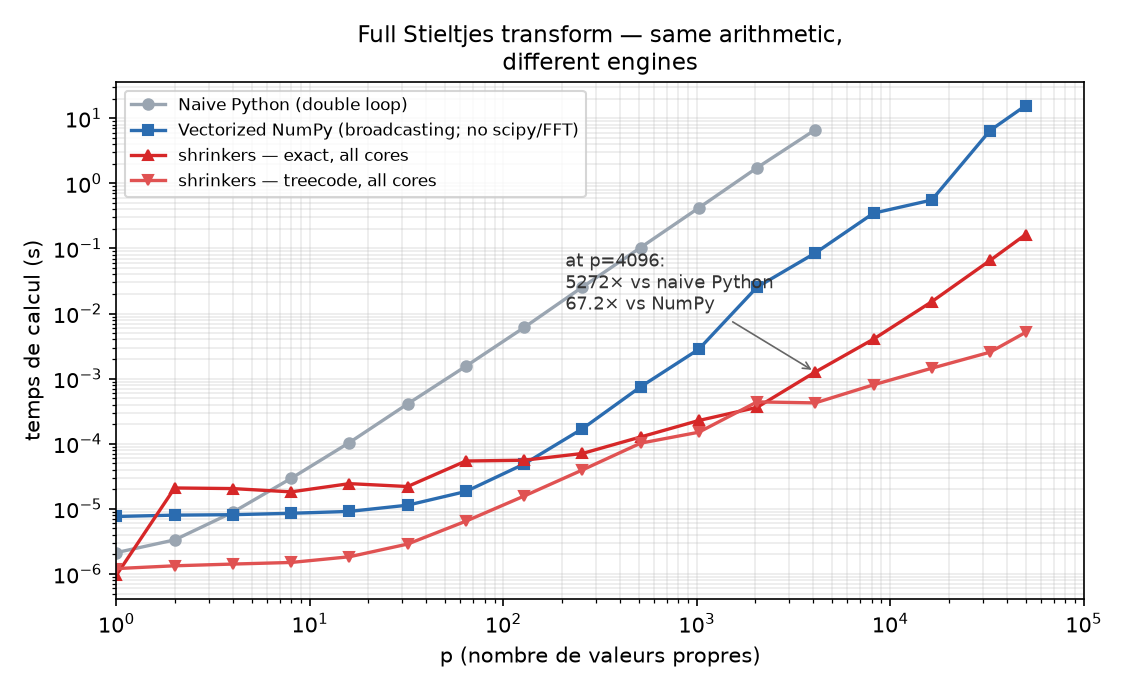
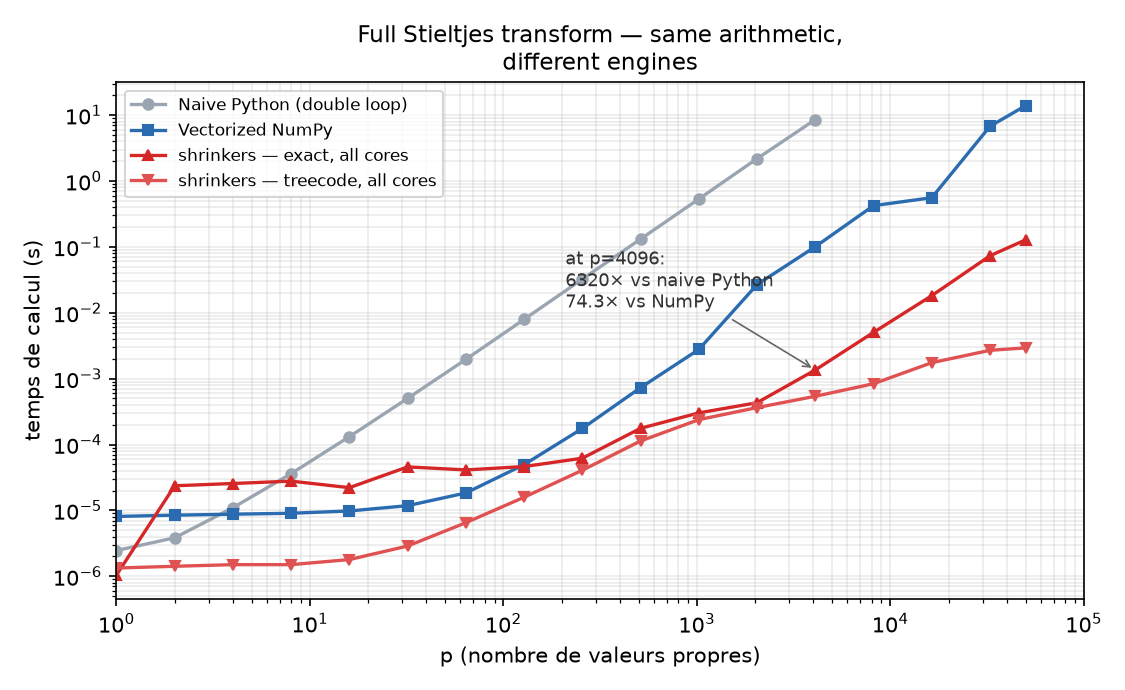
docs(readme): drop the no-scipy/no-FFT disclaimer; resync figure data
The vectorized-NumPy baseline label no longer over-explains itself:
the legend reads just 'Vectorized NumPy' and argument 2 drops the bold
'no FFT, no scipy' aside — the comparison already excludes those by
construction, and the approach is non-trivial enough to stand without
disclaimers.

make_readme_figures.py gains a --reuse mode that re-renders the
figures from the stored JSON instead of re-measuring, so label tweaks
no longer silently drift every README number. While at it the figures
were regenerated from one clean authoritative run and the headline
table resynced to it exactly: p=1024 -> 0.30 ms exact (9x) / 0.24 ms
treecode (12x); p=4096 -> 1.4 ms (75x) / 0.54 ms (187x); p=50000 ->
13.9 s NumPy vs 0.13 s exact (109x) / 2.9 ms treecode (~4700x).
Cleaning-figure medians unchanged (40% -> 4.3%, spikes 12.01/7.07/4.07).

diff --git a/scripts/make_readme_figures.py b/scripts/make_readme_figures.py
@@ -20,6 +20,7 @@ from __future__ import annotations
 
 import json
 import platform
+import sys
 import time
 from pathlib import Path
 
@@ -162,7 +163,13 @@ def bench(fn, *args, repeats: int = 3):
     return float(np.median(ts))
 
 
-def fig_runtime() -> dict:
+def fig_runtime(reuse: bool = False) -> dict:
+    cached = OUT_DIR / "readme_figures.json"
+    if reuse and cached.exists():
+        # Re-render only: keep the previously measured numbers so README
+        # tables stay in sync with the figure.
+        return {"rows": json.loads(cached.read_text())["runtime"]["rows"]}
+
     # Full 10^0..10^5 range, log-spaced; 50000 caps the sweep.
     sizes = [1, 2, 4, 8, 16, 32, 64, 128, 256, 512, 1024, 2048, 4096,
              8192, 16384, 32768, 50000]
@@ -193,7 +200,7 @@ def fig_runtime() -> dict:
 
     series = [
         ("python_naive", "#9aa5b1", "o", "Naive Python (double loop)"),
-        ("numpy", "#2b6cb0", "s", "Vectorized NumPy (broadcasting; no scipy/FFT)"),
+        ("numpy", "#2b6cb0", "s", "Vectorized NumPy"),
         ("shrinkers_exact_rayon", "#d62728", "^", "shrinkers — exact, all cores"),
         ("shrinkers_chebcode_rayon", "#e05252", "v", "shrinkers — treecode, all cores"),
     ]
@@ -234,8 +241,9 @@ def fig_runtime() -> dict:
 
 
 if __name__ == "__main__":
-    cleaning = fig_cleaning()
-    runtime = fig_runtime()
+    reuse = "--reuse" in sys.argv
+    cleaning = None if reuse else fig_cleaning()
+    runtime = fig_runtime(reuse)
     meta = {
         "machine": platform.platform(),
         "processor": platform.processor(),
@@ -244,7 +252,13 @@ if __name__ == "__main__":
         "timing": "median of 3 (naive: 1 rep above p=2048)",
         "date_utc": time.strftime("%Y-%m-%d %H:%M UTC", time.gmtime()),
     }
-    payload = {"meta": meta, "cleaning": cleaning, "runtime": runtime}
+    payload = {"meta": meta, "runtime": runtime}
+    if cleaning is not None:
+        payload["cleaning"] = cleaning
+    elif reuse and (OUT_DIR / "readme_figures.json").exists():
+        # preserve the stored cleaning section when only re-rendering
+        payload["cleaning"] = json.loads(
+            (OUT_DIR / "readme_figures.json").read_text()).get("cleaning")
     (OUT_DIR / "readme_figures.json").write_text(json.dumps(payload, indent=2))
     print(json.dumps(meta, indent=2))
     print("figures written to", OUT_DIR)

diff --git a/README.md b/README.md
@@ -29,9 +29,8 @@ single call (`estimate_population_eigenvalues`).*
 
 **2 · It is absurdly fast for what it computes.** Same math as your NumPy
 one-liner, orders of magnitude faster — compared below against the two
-baselines people actually write: a textbook pure-Python double loop, and
-vectorized NumPy broadcasting (chunked so the p×p matrix never materializes;
-**no FFT, no scipy**):
+baselines people actually write: a textbook pure-Python double loop, and a
+vectorized NumPy version:
 
 ![Performance](docs/img/performance.png)
 
@@ -40,9 +39,9 @@ vectorized NumPy broadcasting (chunked so the p×p matrix never materializes;
 
 | p | Naive Python | NumPy | shrinkers exact ¹ | shrinkers treecode ² |
 |---|---|---|---|---|
-| 1 024 | 0.42 s | 2.8 ms | **0.23 ms** · 12× | **0.15 ms** · 19× |
-| 4 096 | 6.7 s | 85 ms | **1.3 ms** · 67× | **0.42 ms** · 201× |
-| 50 000 | *(~2 h extrapolated)* | 15.6 s | **0.16 s** · 96× | **5.1 ms** · ≈3000× |
+| 1 024 | 0.53 s | 2.8 ms | **0.30 ms** · 9× | **0.24 ms** · 12× |
+| 4 096 | 8.6 s | 101 ms | **1.4 ms** · 75× | **0.54 ms** · 187× |
+| 50 000 | *(~2 h extrapolated)* | 13.9 s | **0.13 s** · 109× | **2.9 ms** · ≈4700× |
 
 ¹ machine precision — the zero-error anchor.  ² `chebcode_fast` preset,
 rel. error ~1e-8: giving up four digits of accuracy buys two more orders of
